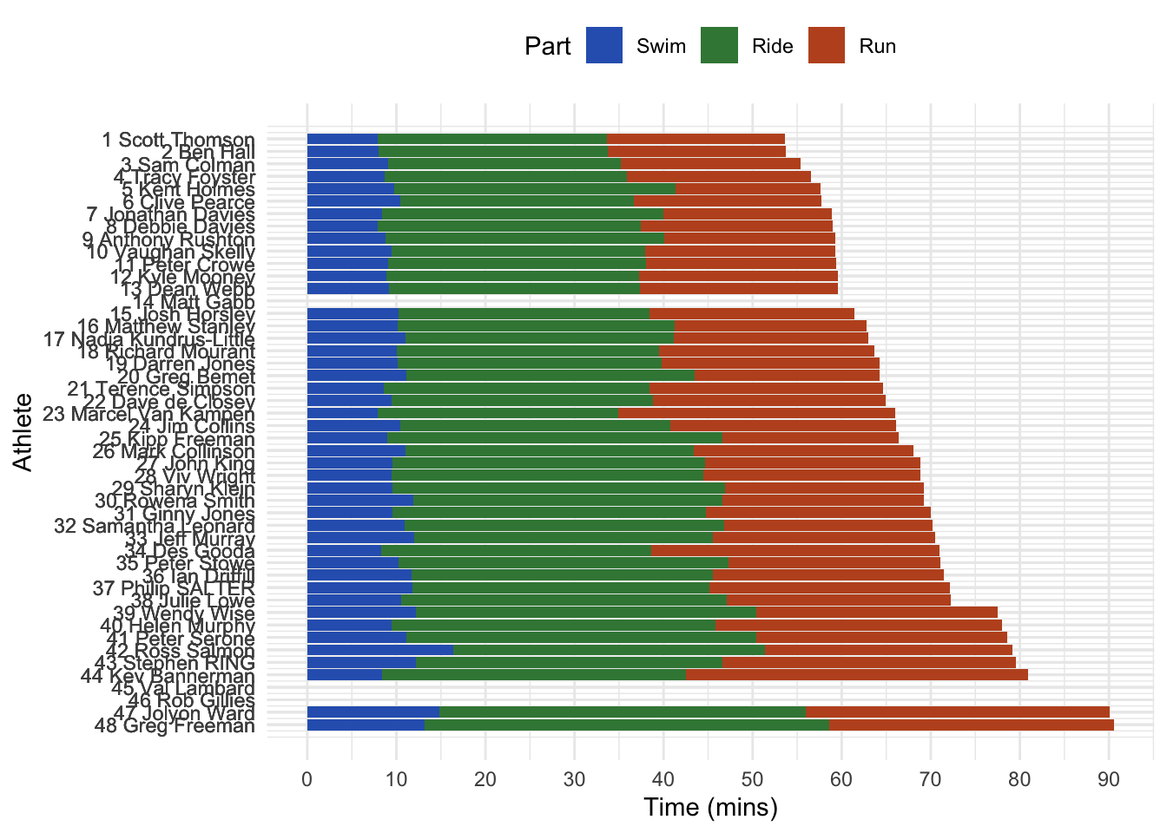
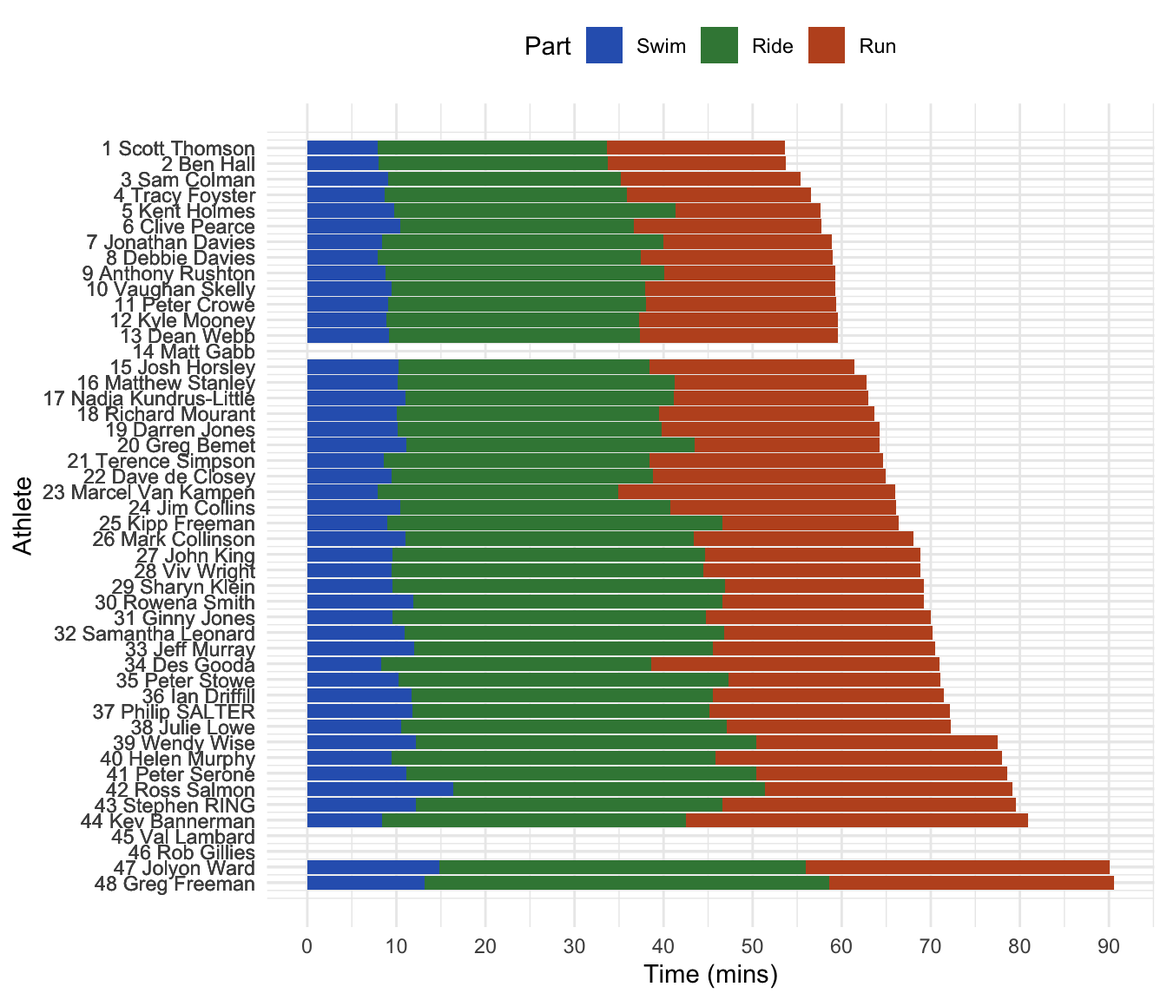
Static plot size increased.

diff --git a/race-results.html b/race-results.html
@@ -173,8 +173,8 @@ code span.wa { color: #60a0b0; font-weight: bold; font-style: italic; } /* Warni
 <p>Overall times</p>
 <div id="content">
 <div class="desktop">
-<div id="htmlwidget-0e94070414d6298dd7f4" style="width:800px;height:700px;" class="plotly html-widget"></div>
-<script type="application/json" data-for="htmlwidget-0e94070414d6298dd7f4">{"x":{"data":[{"orientation":"v","width":[7.86666666666667,8.01666666666667,9.1,8.68333333333333,9.8,10.4,8.43333333333333,7.88333333333333,8.78333333333333,9.41666666666667,9.05,8.85,9.18333333333333,10.2,10.1833333333333,10.9833333333333,10.05,10.15,11.0833333333333,8.58333333333333,9.45,7.88333333333333,10.4,9,11,9.51666666666667,9.5,9.55,11.9,9.58333333333333,10.9333333333333,12.0333333333333,8.31666666666667,10.25,11.6833333333333,11.7666666666667,10.55,12.2333333333333,9.46666666666667,11.1166666666667,16.3833333333333,12.2,8.41666666666667,14.8333333333333,13.15],"base":[-1.45,-2.45,-3.45,-4.45,-5.45,-6.45,-7.45,-8.45,-9.45,-10.45,-11.45,-12.45,-13.45,-15.45,-16.45,-17.45,-18.45,-19.45,-20.45,-21.45,-22.45,-23.45,-24.45,-25.45,-26.45,-27.45,-28.45,-29.45,-30.45,-31.45,-32.45,-33.45,-34.45,-35.45,-36.45,-37.45,-38.45,-39.45,-40.45,-41.45,-42.45,-43.45,-44.45,-47.45,-48.45],"x":[3.93333333333333,4.00833333333333,4.55,4.34166666666667,4.9,5.2,4.21666666666667,3.94166666666667,4.39166666666667,4.70833333333333,4.525,4.425,4.59166666666667,5.1,5.09166666666667,5.49166666666667,5.025,5.075,5.54166666666667,4.29166666666667,4.725,3.94166666666667,5.2,4.5,5.5,4.75833333333333,4.75,4.775,5.95,4.79166666666667,5.46666666666667,6.01666666666667,4.15833333333333,5.125,5.84166666666667,5.88333333333333,5.275,6.11666666666667,4.73333333333333,5.55833333333333,8.19166666666667,6.1,4.20833333333333,7.41666666666667,6.575],"y":[0.9,0.9,0.9,0.9,0.9,0.9,0.9,0.899999999999999,0.899999999999999,0.899999999999999,0.899999999999999,0.899999999999999,0.899999999999999,0.899999999999999,0.899999999999999,0.899999999999999,0.899999999999999,0.899999999999999,0.899999999999999,0.899999999999999,0.899999999999999,0.899999999999999,0.899999999999999,0.899999999999999,0.899999999999999,0.899999999999999,0.899999999999999,0.899999999999999,0.899999999999999,0.899999999999999,0.900000000000002,0.900000000000006,0.900000000000006,0.900000000000006,0.900000000000006,0.900000000000006,0.900000000000006,0.900000000000006,0.900000000000006,0.900000000000006,0.900000000000006,0.900000000000006,0.900000000000006,0.900000000000006,0.900000000000006],"text":["Scott Thomson<br />Swim: 00:07:52","Ben Hall<br />Swim: 00:08:01","Sam Colman<br />Swim: 00:09:06","Tracy Foyster<br />Swim: 00:08:41","Kent Holmes<br />Swim: 00:09:48","Clive Pearce<br />Swim: 00:10:24","Jonathan Davies<br />Swim: 00:08:26","Debbie Davies<br />Swim: 00:07:53","Anthony Rushton<br />Swim: 00:08:47","Vaughan Skelly<br />Swim: 00:09:25","Peter Crowe<br />Swim: 00:09:03","Kyle Mooney<br />Swim: 00:08:51","Dean Webb<br />Swim: 00:09:11","Josh Horsley<br />Swim: 00:10:12","Matthew Stanley<br />Swim: 00:10:11","Nadja Kundrus-Little<br />Swim: 00:10:59","Richard Mourant<br />Swim: 00:10:03","Darren Jones<br />Swim: 00:10:09","Greg Bemet<br />Swim: 00:11:05","Terence Simpson<br />Swim: 00:08:35","Dave de Closey<br />Swim: 00:09:27","Marcel Van Kampen<br />Swim: 00:07:53","Jim Collins<br />Swim: 00:10:24","Kipp Freeman<br />Swim: 00:09:00","Mark Collinson<br />Swim: 00:11:00","John King<br />Swim: 00:09:31","Viv Wright<br />Swim: 00:09:30","Sharyn Klein<br />Swim: 00:09:33","Rowena Smith<br />Swim: 00:11:54","Ginny Jones<br />Swim: 00:09:35","Samantha Leonard<br />Swim: 00:10:56","Jeff Murray<br />Swim: 00:12:02","Des Gooda<br />Swim: 00:08:19","Peter Stowe<br />Swim: 00:10:15","Ian Driffill<br />Swim: 00:11:41","Philip SALTER<br />Swim: 00:11:46","Julie Lowe<br />Swim: 00:10:33","Wendy Wise<br />Swim: 00:12:14","Helen Murphy<br />Swim: 00:09:28","Peter Serone<br />Swim: 00:11:07","Ross Salmon<br />Swim: 00:16:23","Stephen RING<br />Swim: 00:12:12","Kev Bannerman<br />Swim: 00:08:25","Jolyon Ward<br />Swim: 00:14:50","Greg Freeman<br />Swim: 00:13:09"],"type":"bar","marker":{"autocolorscale":false,"color":"rgba(46,99,188,1)","line":{"width":1.88976377952756,"color":"transparent"}},"name":"Swim","legendgroup":"Swim","showlegend":true,"xaxis":"x","yaxis":"y","hoverinfo":"text","frame":null},{"orientation":"v","width":[25.75,25.7,26.0833333333333,27.1833333333333,31.5166666666667,26.2333333333333,31.5,29.5833333333333,31.25,28.55,29,28.35,28.15,28.2333333333333,31.0166666666667,30.1833333333333,29.4166666666667,29.6,32.45,29.85,29.4,27.05,30.3166666666667,37.6,32.4166666666667,35.1,34.9333333333333,37.3,34.7166666666667,35.2166666666667,35.85,33.4666666666667,30.3166666666667,37.0666666666667,33.85,33.4166666666667,36.5166666666667,38.1666666666667,36.4,39.2833333333333,34.9666666666667,34.3666666666667,34.1,41.15,45.4666666666667],"base":[-1.45,-2.45,-3.45,-4.45,-5.45,-6.45,-7.45,-8.45,-9.45,-10.45,-11.45,-12.45,-13.45,-15.45,-16.45,-17.45,-18.45,-19.45,-20.45,-21.45,-22.45,-23.45,-24.45,-25.45,-26.45,-27.45,-28.45,-29.45,-30.45,-31.45,-32.45,-33.45,-34.45,-35.45,-36.45,-37.45,-38.45,-39.45,-40.45,-41.45,-42.45,-43.45,-44.45,-47.45,-48.45],"x":[20.7416666666667,20.8666666666667,22.1416666666667,22.275,25.5583333333333,23.5166666666667,24.1833333333333,22.675,24.4083333333333,23.6916666666667,23.55,23.025,23.2583333333333,24.3166666666667,25.6916666666667,26.075,24.7583333333333,24.95,27.3083333333333,23.5083333333333,24.15,21.4083333333333,25.5583333333333,27.8,27.2083333333333,27.0666666666667,26.9666666666667,28.2,29.2583333333333,27.1916666666667,28.8583333333333,28.7666666666667,23.475,28.7833333333333,28.6083333333333,28.475,28.8083333333333,31.3166666666667,27.6666666666667,30.7583333333333,33.8666666666667,29.3833333333333,25.4666666666667,35.4083333333333,35.8833333333333],"y":[0.9,0.9,0.9,0.9,0.9,0.9,0.9,0.899999999999999,0.899999999999999,0.899999999999999,0.899999999999999,0.899999999999999,0.899999999999999,0.899999999999999,0.899999999999999,0.899999999999999,0.899999999999999,0.899999999999999,0.899999999999999,0.899999999999999,0.899999999999999,0.899999999999999,0.899999999999999,0.899999999999999,0.899999999999999,0.899999999999999,0.899999999999999,0.899999999999999,0.899999999999999,0.899999999999999,0.900000000000002,0.900000000000006,0.900000000000006,0.900000000000006,0.900000000000006,0.900000000000006,0.900000000000006,0.900000000000006,0.900000000000006,0.900000000000006,0.900000000000006,0.900000000000006,0.900000000000006,0.900000000000006,0.900000000000006],"text":["Scott Thomson<br />Ride: 00:25:45","Ben Hall<br />Ride: 00:25:42","Sam Colman<br />Ride: 00:26:05","Tracy Foyster<br />Ride: 00:27:11","Kent Holmes<br />Ride: 00:31:31","Clive Pearce<br />Ride: 00:26:14","Jonathan Davies<br />Ride: 00:31:30","Debbie Davies<br />Ride: 00:29:35","Anthony Rushton<br />Ride: 00:31:15","Vaughan Skelly<br />Ride: 00:28:33","Peter Crowe<br />Ride: 00:29:00","Kyle Mooney<br />Ride: 00:28:21","Dean Webb<br />Ride: 00:28:09","Josh Horsley<br />Ride: 00:28:14","Matthew Stanley<br />Ride: 00:31:01","Nadja Kundrus-Little<br />Ride: 00:30:11","Richard Mourant<br />Ride: 00:29:25","Darren Jones<br />Ride: 00:29:36","Greg Bemet<br />Ride: 00:32:27","Terence Simpson<br />Ride: 00:29:51","Dave de Closey<br />Ride: 00:29:24","Marcel Van Kampen<br />Ride: 00:27:03","Jim Collins<br />Ride: 00:30:19","Kipp Freeman<br />Ride: 00:37:36","Mark Collinson<br />Ride: 00:32:25","John King<br />Ride: 00:35:06","Viv Wright<br />Ride: 00:34:56","Sharyn Klein<br />Ride: 00:37:18","Rowena Smith<br />Ride: 00:34:43","Ginny Jones<br />Ride: 00:35:13","Samantha Leonard<br />Ride: 00:35:51","Jeff Murray<br />Ride: 00:33:28","Des Gooda<br />Ride: 00:30:19","Peter Stowe<br />Ride: 00:37:04","Ian Driffill<br />Ride: 00:33:51","Philip SALTER<br />Ride: 00:33:25","Julie Lowe<br />Ride: 00:36:31","Wendy Wise<br />Ride: 00:38:10","Helen Murphy<br />Ride: 00:36:24","Peter Serone<br />Ride: 00:39:17","Ross Salmon<br />Ride: 00:34:58","Stephen RING<br />Ride: 00:34:22","Kev Bannerman<br />Ride: 00:34:06","Jolyon Ward<br />Ride: 00:41:09","Greg Freeman<br />Ride: 00:45:28"],"type":"bar","marker":{"autocolorscale":false,"color":"rgba(59,133,68,1)","line":{"width":1.88976377952756,"color":"transparent"}},"name":"Ride","legendgroup":"Ride","showlegend":true,"xaxis":"x","yaxis":"y","hoverinfo":"text","frame":null},{"orientation":"v","width":[19.9666666666667,19.9666666666667,20.2,20.6833333333333,16.35,21.1,18.9166666666667,21.5,19.2,21.3,21.3333333333333,22.4,22.2833333333333,22.9666666666667,21.6166666666667,21.7833333333333,24.1666666666667,24.4833333333333,20.75,26.2,26.05,31.1166666666667,25.3666666666667,19.7833333333333,24.6333333333333,24.25,24.4333333333333,22.35,22.6333333333333,25.2166666666667,23.4,25.0333333333333,32.3833333333333,23.7333333333333,25.9,26.9833333333333,25.1333333333333,27.0833333333333,32.1166666666667,28.2,27.7833333333333,33,38.3833333333333,34.1166666666667,31.95],"base":[-1.45,-2.45,-3.45,-4.45,-5.45,-6.45,-7.45,-8.45,-9.45,-10.45,-11.45,-12.45,-13.45,-15.45,-16.45,-17.45,-18.45,-19.45,-20.45,-21.45,-22.45,-23.45,-24.45,-25.45,-26.45,-27.45,-28.45,-29.45,-30.45,-31.45,-32.45,-33.45,-34.45,-35.45,-36.45,-37.45,-38.45,-39.45,-40.45,-41.45,-42.45,-43.45,-44.45,-47.45,-48.45],"x":[43.6,43.7,45.2833333333333,46.2083333333333,49.4916666666667,47.1833333333333,49.3916666666667,48.2166666666667,49.6333333333333,48.6166666666667,48.7166666666667,48.4,48.475,49.9166666666667,52.0083333333333,52.0583333333333,51.55,51.9916666666667,53.9083333333333,51.5333333333333,51.875,50.4916666666667,53.4,56.4916666666667,55.7333333333333,56.7416666666667,56.65,58.025,57.9333333333333,57.4083333333333,58.4833333333333,58.0166666666667,54.825,59.1833333333333,58.4833333333333,58.675,59.6333333333333,63.9416666666667,61.925,64.5,65.2416666666667,63.0666666666667,61.7083333333333,73.0416666666667,74.5916666666667],"y":[0.9,0.9,0.9,0.9,0.9,0.9,0.9,0.899999999999999,0.899999999999999,0.899999999999999,0.899999999999999,0.899999999999999,0.899999999999999,0.899999999999999,0.899999999999999,0.899999999999999,0.899999999999999,0.899999999999999,0.899999999999999,0.899999999999999,0.899999999999999,0.899999999999999,0.899999999999999,0.899999999999999,0.899999999999999,0.899999999999999,0.899999999999999,0.899999999999999,0.899999999999999,0.899999999999999,0.900000000000002,0.900000000000006,0.900000000000006,0.900000000000006,0.900000000000006,0.900000000000006,0.900000000000006,0.900000000000006,0.900000000000006,0.900000000000006,0.900000000000006,0.900000000000006,0.900000000000006,0.900000000000006,0.900000000000006],"text":["Scott Thomson<br />Run: 00:19:58","Ben Hall<br />Run: 00:19:58","Sam Colman<br />Run: 00:20:12","Tracy Foyster<br />Run: 00:20:41","Kent Holmes<br />Run: 00:16:21","Clive Pearce<br />Run: 00:21:06","Jonathan Davies<br />Run: 00:18:55","Debbie Davies<br />Run: 00:21:30","Anthony Rushton<br />Run: 00:19:12","Vaughan Skelly<br />Run: 00:21:18","Peter Crowe<br />Run: 00:21:20","Kyle Mooney<br />Run: 00:22:24","Dean Webb<br />Run: 00:22:17","Josh Horsley<br />Run: 00:22:58","Matthew Stanley<br />Run: 00:21:37","Nadja Kundrus-Little<br />Run: 00:21:47","Richard Mourant<br />Run: 00:24:10","Darren Jones<br />Run: 00:24:29","Greg Bemet<br />Run: 00:20:45","Terence Simpson<br />Run: 00:26:12","Dave de Closey<br />Run: 00:26:03","Marcel Van Kampen<br />Run: 00:31:07","Jim Collins<br />Run: 00:25:22","Kipp Freeman<br />Run: 00:19:47","Mark Collinson<br />Run: 00:24:38","John King<br />Run: 00:24:15","Viv Wright<br />Run: 00:24:26","Sharyn Klein<br />Run: 00:22:21","Rowena Smith<br />Run: 00:22:38","Ginny Jones<br />Run: 00:25:13","Samantha Leonard<br />Run: 00:23:24","Jeff Murray<br />Run: 00:25:02","Des Gooda<br />Run: 00:32:23","Peter Stowe<br />Run: 00:23:44","Ian Driffill<br />Run: 00:25:54","Philip SALTER<br />Run: 00:26:59","Julie Lowe<br />Run: 00:25:08","Wendy Wise<br />Run: 00:27:05","Helen Murphy<br />Run: 00:32:07","Peter Serone<br />Run: 00:28:12","Ross Salmon<br />Run: 00:27:47","Stephen RING<br />Run: 00:33:00","Kev Bannerman<br />Run: 00:38:23","Jolyon Ward<br />Run: 00:34:07","Greg Freeman<br />Run: 00:31:57"],"type":"bar","marker":{"autocolorscale":false,"color":"rgba(191,83,36,1)","line":{"width":1.88976377952756,"color":"transparent"}},"name":"Run","legendgroup":"Run","showlegend":true,"xaxis":"x","yaxis":"y","hoverinfo":"text","frame":null}],"layout":{"margin":{"t":24.3496412263536,"r":7.30593607305936,"b":38.3039791258969,"l":160},"font":{"color":"rgba(0,0,0,1)","family":"","size":14.6118721461187},"xaxis":{"domain":[0,1],"automargin":true,"type":"linear","autorange":false,"range":[-4.52833333333333,95.095],"tickmode":"array","ticktext":["0","10","20","30","40","50","60","70","80","90"],"tickvals":[0,10,20,30,40,50,60,70,80,90],"categoryorder":"array","categoryarray":["0","10","20","30","40","50","60","70","80","90"],"nticks":null,"ticks":"","tickcolor":null,"ticklen":3.65296803652968,"tickwidth":0,"showticklabels":true,"tickfont":{"color":"rgba(77,77,77,1)","family":"","size":11.689497716895},"tickangle":-0,"showline":false,"linecolor":null,"linewidth":0,"showgrid":true,"gridcolor":"rgba(235,235,235,1)","gridwidth":0.66417600664176,"zeroline":false,"anchor":"y","title":{"text":"Time (mins)","font":{"color":"rgba(0,0,0,1)","family":"","size":14.6118721461187}},"hoverformat":".2f"},"yaxis":{"domain":[0,1],"automargin":true,"type":"linear","autorange":false,"range":[-50.845,1.845],"tickmode":"array","ticktext":["1 Scott Thomson","2 Ben Hall","3 Sam Colman","4 Tracy Foyster","5 Kent Holmes","6 Clive Pearce","7 Jonathan Davies","8 Debbie Davies","9 Anthony Rushton","10 Vaughan Skelly","11 Peter Crowe","12 Kyle Mooney","13 Dean Webb","14 Matt Gabb","15 Josh Horsley","16 Matthew Stanley","17 Nadja Kundrus-Little","18 Richard Mourant","19 Darren Jones","20 Greg Bemet","21 Terence Simpson","22 Dave de Closey","23 Marcel Van Kampen","24 Jim Collins","25 Kipp Freeman","26 Mark Collinson","27 John King","28 Viv Wright","29 Sharyn Klein","30 Rowena Smith","31 Ginny Jones","32 Samantha Leonard","33 Jeff Murray","34 Des Gooda","35 Peter Stowe","36 Ian Driffill","37 Philip SALTER","38 Julie Lowe","39 Wendy Wise","40 Helen Murphy","41 Peter Serone","42 Ross Salmon","43 Stephen RING","44 Kev Bannerman","45 Val Lambard","46 Rob Gillies","47 Jolyon Ward","48 Greg Freeman","1 Scott Thomson","2 Ben Hall","3 Sam Colman","4 Tracy Foyster","5 Kent Holmes","6 Clive Pearce","7 Jonathan Davies","8 Debbie Davies","9 Anthony Rushton","10 Vaughan Skelly","11 Peter Crowe","12 Kyle Mooney","13 Dean Webb","14 Matt Gabb","15 Josh Horsley","16 Matthew Stanley","17 Nadja Kundrus-Little","18 Richard Mourant","19 Darren Jones","20 Greg Bemet","21 Terence Simpson","22 Dave de Closey","23 Marcel Van Kampen","24 Jim Collins","25 Kipp Freeman","26 Mark Collinson","27 John King","28 Viv Wright","29 Sharyn Klein","30 Rowena Smith","31 Ginny Jones","32 Samantha Leonard","33 Jeff Murray","34 Des Gooda","35 Peter Stowe","36 Ian Driffill","37 Philip SALTER","38 Julie Lowe","39 Wendy Wise","40 Helen Murphy","41 Peter Serone","42 Ross Salmon","43 Stephen RING","44 Kev Bannerman","45 Val Lambard","46 Rob Gillies","47 Jolyon Ward","48 Greg Freeman","1 Scott Thomson","2 Ben Hall","3 Sam Colman","4 Tracy Foyster","5 Kent Holmes","6 Clive Pearce","7 Jonathan Davies","8 Debbie Davies","9 Anthony Rushton","10 Vaughan Skelly","11 Peter Crowe","12 Kyle Mooney","13 Dean Webb","14 Matt Gabb","15 Josh Horsley","16 Matthew Stanley","17 Nadja Kundrus-Little","18 Richard Mourant","19 Darren Jones","20 Greg Bemet","21 Terence Simpson","22 Dave de Closey","23 Marcel Van Kampen","24 Jim Collins","25 Kipp Freeman","26 Mark Collinson","27 John King","28 Viv Wright","29 Sharyn Klein","30 Rowena Smith","31 Ginny Jones","32 Samantha Leonard","33 Jeff Murray","34 Des Gooda","35 Peter Stowe","36 Ian Driffill","37 Philip SALTER","38 Julie Lowe","39 Wendy Wise","40 Helen Murphy","41 Peter Serone","42 Ross Salmon","43 Stephen RING","44 Kev Bannerman","45 Val Lambard","46 Rob Gillies","47 Jolyon Ward","48 Greg Freeman"],"tickvals":[-1,-2,-3,-4,-5,-6,-7,-8,-9,-10,-11,-12,-13,-14,-15,-16,-17,-18,-19,-20,-21,-22,-23,-24,-25,-26,-27,-28,-29,-30,-31,-32,-33,-34,-35,-36,-37,-38,-39,-40,-41,-42,-43,-44,-45,-46,-47,-48,-1,-2,-3,-4,-5,-6,-7,-8,-9,-10,-11,-12,-13,-14,-15,-16,-17,-18,-19,-20,-21,-22,-23,-24,-25,-26,-27,-28,-29,-30,-31,-32,-33,-34,-35,-36,-37,-38,-39,-40,-41,-42,-43,-44,-45,-46,-47,-48,-1,-2,-3,-4,-5,-6,-7,-8,-9,-10,-11,-12,-13,-14,-15,-16,-17,-18,-19,-20,-21,-22,-23,-24,-25,-26,-27,-28,-29,-30,-31,-32,-33,-34,-35,-36,-37,-38,-39,-40,-41,-42,-43,-44,-45,-46,-47,-48],"categoryorder":"array","categoryarray":["1 Scott Thomson","2 Ben Hall","3 Sam Colman","4 Tracy Foyster","5 Kent Holmes","6 Clive Pearce","7 Jonathan Davies","8 Debbie Davies","9 Anthony Rushton","10 Vaughan Skelly","11 Peter Crowe","12 Kyle Mooney","13 Dean Webb","14 Matt Gabb","15 Josh Horsley","16 Matthew Stanley","17 Nadja Kundrus-Little","18 Richard Mourant","19 Darren Jones","20 Greg Bemet","21 Terence Simpson","22 Dave de Closey","23 Marcel Van Kampen","24 Jim Collins","25 Kipp Freeman","26 Mark Collinson","27 John King","28 Viv Wright","29 Sharyn Klein","30 Rowena Smith","31 Ginny Jones","32 Samantha Leonard","33 Jeff Murray","34 Des Gooda","35 Peter Stowe","36 Ian Driffill","37 Philip SALTER","38 Julie Lowe","39 Wendy Wise","40 Helen Murphy","41 Peter Serone","42 Ross Salmon","43 Stephen RING","44 Kev Bannerman","45 Val Lambard","46 Rob Gillies","47 Jolyon Ward","48 Greg Freeman","1 Scott Thomson","2 Ben Hall","3 Sam Colman","4 Tracy Foyster","5 Kent Holmes","6 Clive Pearce","7 Jonathan Davies","8 Debbie Davies","9 Anthony Rushton","10 Vaughan Skelly","11 Peter Crowe","12 Kyle Mooney","13 Dean Webb","14 Matt Gabb","15 Josh Horsley","16 Matthew Stanley","17 Nadja Kundrus-Little","18 Richard Mourant","19 Darren Jones","20 Greg Bemet","21 Terence Simpson","22 Dave de Closey","23 Marcel Van Kampen","24 Jim Collins","25 Kipp Freeman","26 Mark Collinson","27 John King","28 Viv Wright","29 Sharyn Klein","30 Rowena Smith","31 Ginny Jones","32 Samantha Leonard","33 Jeff Murray","34 Des Gooda","35 Peter Stowe","36 Ian Driffill","37 Philip SALTER","38 Julie Lowe","39 Wendy Wise","40 Helen Murphy","41 Peter Serone","42 Ross Salmon","43 Stephen RING","44 Kev Bannerman","45 Val Lambard","46 Rob Gillies","47 Jolyon Ward","48 Greg Freeman","1 Scott Thomson","2 Ben Hall","3 Sam Colman","4 Tracy Foyster","5 Kent Holmes","6 Clive Pearce","7 Jonathan Davies","8 Debbie Davies","9 Anthony Rushton","10 Vaughan Skelly","11 Peter Crowe","12 Kyle Mooney","13 Dean Webb","14 Matt Gabb","15 Josh Horsley","16 Matthew Stanley","17 Nadja Kundrus-Little","18 Richard Mourant","19 Darren Jones","20 Greg Bemet","21 Terence Simpson","22 Dave de Closey","23 Marcel Van Kampen","24 Jim Collins","25 Kipp Freeman","26 Mark Collinson","27 John King","28 Viv Wright","29 Sharyn Klein","30 Rowena Smith","31 Ginny Jones","32 Samantha Leonard","33 Jeff Murray","34 Des Gooda","35 Peter Stowe","36 Ian Driffill","37 Philip SALTER","38 Julie Lowe","39 Wendy Wise","40 Helen Murphy","41 Peter Serone","42 Ross Salmon","43 Stephen RING","44 Kev Bannerman","45 Val Lambard","46 Rob Gillies","47 Jolyon Ward","48 Greg Freeman"],"nticks":null,"ticks":"","tickcolor":null,"ticklen":3.65296803652968,"tickwidth":0,"showticklabels":true,"tickfont":{"color":"rgba(77,77,77,1)","family":"","size":11.689497716895},"tickangle":-0,"showline":false,"linecolor":null,"linewidth":0,"showgrid":true,"gridcolor":"rgba(235,235,235,1)","gridwidth":0.66417600664176,"zeroline":false,"anchor":"x","title":{"text":"Athlete","font":{"color":"rgba(0,0,0,1)","family":"","size":14.6118721461187}},"hoverformat":".2f"},"shapes":[{"type":"rect","fillcolor":null,"line":{"color":null,"width":0,"linetype":[]},"yref":"paper","xref":"paper","x0":0,"x1":1,"y0":0,"y1":1}],"showlegend":true,"legend":{"bgcolor":null,"bordercolor":null,"borderwidth":0,"font":{"color":"rgba(0,0,0,1)","family":"","size":11.689497716895},"y":0.955455568053993},"annotations":[{"text":"Part","x":1.02,"y":1,"showarrow":false,"ax":0,"ay":0,"font":{"color":"rgba(0,0,0,1)","family":"","size":14.6118721461187},"xref":"paper","yref":"paper","textangle":-0,"xanchor":"left","yanchor":"bottom","legendTitle":true}],"hovermode":"closest","width":800,"height":700,"barmode":"relative"},"config":{"doubleClick":"reset","showSendToCloud":false},"source":"A","attrs":{"3e3d2c009969":{"x":{},"y":{},"fill":{},"text":{},"type":"bar"}},"cur_data":"3e3d2c009969","visdat":{"3e3d2c009969":["function (y) ","x"]},"highlight":{"on":"plotly_click","persistent":false,"dynamic":false,"selectize":false,"opacityDim":0.2,"selected":{"opacity":1},"debounce":0},"shinyEvents":["plotly_hover","plotly_click","plotly_selected","plotly_relayout","plotly_brushed","plotly_brushing","plotly_clickannotation","plotly_doubleclick","plotly_deselect","plotly_afterplot","plotly_sunburstclick"],"base_url":"https://plot.ly"},"evals":[],"jsHooks":[]}</script>
+<div id="htmlwidget-45db019c6979245d92b0" style="width:800px;height:700px;" class="plotly html-widget"></div>
+<script type="application/json" data-for="htmlwidget-45db019c6979245d92b0">{"x":{"data":[{"orientation":"v","width":[7.86666666666667,8.01666666666667,9.1,8.68333333333333,9.8,10.4,8.43333333333333,7.88333333333333,8.78333333333333,9.41666666666667,9.05,8.85,9.18333333333333,10.2,10.1833333333333,10.9833333333333,10.05,10.15,11.0833333333333,8.58333333333333,9.45,7.88333333333333,10.4,9,11,9.51666666666667,9.5,9.55,11.9,9.58333333333333,10.9333333333333,12.0333333333333,8.31666666666667,10.25,11.6833333333333,11.7666666666667,10.55,12.2333333333333,9.46666666666667,11.1166666666667,16.3833333333333,12.2,8.41666666666667,14.8333333333333,13.15],"base":[-1.45,-2.45,-3.45,-4.45,-5.45,-6.45,-7.45,-8.45,-9.45,-10.45,-11.45,-12.45,-13.45,-15.45,-16.45,-17.45,-18.45,-19.45,-20.45,-21.45,-22.45,-23.45,-24.45,-25.45,-26.45,-27.45,-28.45,-29.45,-30.45,-31.45,-32.45,-33.45,-34.45,-35.45,-36.45,-37.45,-38.45,-39.45,-40.45,-41.45,-42.45,-43.45,-44.45,-47.45,-48.45],"x":[3.93333333333333,4.00833333333333,4.55,4.34166666666667,4.9,5.2,4.21666666666667,3.94166666666667,4.39166666666667,4.70833333333333,4.525,4.425,4.59166666666667,5.1,5.09166666666667,5.49166666666667,5.025,5.075,5.54166666666667,4.29166666666667,4.725,3.94166666666667,5.2,4.5,5.5,4.75833333333333,4.75,4.775,5.95,4.79166666666667,5.46666666666667,6.01666666666667,4.15833333333333,5.125,5.84166666666667,5.88333333333333,5.275,6.11666666666667,4.73333333333333,5.55833333333333,8.19166666666667,6.1,4.20833333333333,7.41666666666667,6.575],"y":[0.9,0.9,0.9,0.9,0.9,0.9,0.9,0.899999999999999,0.899999999999999,0.899999999999999,0.899999999999999,0.899999999999999,0.899999999999999,0.899999999999999,0.899999999999999,0.899999999999999,0.899999999999999,0.899999999999999,0.899999999999999,0.899999999999999,0.899999999999999,0.899999999999999,0.899999999999999,0.899999999999999,0.899999999999999,0.899999999999999,0.899999999999999,0.899999999999999,0.899999999999999,0.899999999999999,0.900000000000002,0.900000000000006,0.900000000000006,0.900000000000006,0.900000000000006,0.900000000000006,0.900000000000006,0.900000000000006,0.900000000000006,0.900000000000006,0.900000000000006,0.900000000000006,0.900000000000006,0.900000000000006,0.900000000000006],"text":["Scott Thomson<br />Swim: 00:07:52","Ben Hall<br />Swim: 00:08:01","Sam Colman<br />Swim: 00:09:06","Tracy Foyster<br />Swim: 00:08:41","Kent Holmes<br />Swim: 00:09:48","Clive Pearce<br />Swim: 00:10:24","Jonathan Davies<br />Swim: 00:08:26","Debbie Davies<br />Swim: 00:07:53","Anthony Rushton<br />Swim: 00:08:47","Vaughan Skelly<br />Swim: 00:09:25","Peter Crowe<br />Swim: 00:09:03","Kyle Mooney<br />Swim: 00:08:51","Dean Webb<br />Swim: 00:09:11","Josh Horsley<br />Swim: 00:10:12","Matthew Stanley<br />Swim: 00:10:11","Nadja Kundrus-Little<br />Swim: 00:10:59","Richard Mourant<br />Swim: 00:10:03","Darren Jones<br />Swim: 00:10:09","Greg Bemet<br />Swim: 00:11:05","Terence Simpson<br />Swim: 00:08:35","Dave de Closey<br />Swim: 00:09:27","Marcel Van Kampen<br />Swim: 00:07:53","Jim Collins<br />Swim: 00:10:24","Kipp Freeman<br />Swim: 00:09:00","Mark Collinson<br />Swim: 00:11:00","John King<br />Swim: 00:09:31","Viv Wright<br />Swim: 00:09:30","Sharyn Klein<br />Swim: 00:09:33","Rowena Smith<br />Swim: 00:11:54","Ginny Jones<br />Swim: 00:09:35","Samantha Leonard<br />Swim: 00:10:56","Jeff Murray<br />Swim: 00:12:02","Des Gooda<br />Swim: 00:08:19","Peter Stowe<br />Swim: 00:10:15","Ian Driffill<br />Swim: 00:11:41","Philip SALTER<br />Swim: 00:11:46","Julie Lowe<br />Swim: 00:10:33","Wendy Wise<br />Swim: 00:12:14","Helen Murphy<br />Swim: 00:09:28","Peter Serone<br />Swim: 00:11:07","Ross Salmon<br />Swim: 00:16:23","Stephen RING<br />Swim: 00:12:12","Kev Bannerman<br />Swim: 00:08:25","Jolyon Ward<br />Swim: 00:14:50","Greg Freeman<br />Swim: 00:13:09"],"type":"bar","marker":{"autocolorscale":false,"color":"rgba(46,99,188,1)","line":{"width":1.88976377952756,"color":"transparent"}},"name":"Swim","legendgroup":"Swim","showlegend":true,"xaxis":"x","yaxis":"y","hoverinfo":"text","frame":null},{"orientation":"v","width":[25.75,25.7,26.0833333333333,27.1833333333333,31.5166666666667,26.2333333333333,31.5,29.5833333333333,31.25,28.55,29,28.35,28.15,28.2333333333333,31.0166666666667,30.1833333333333,29.4166666666667,29.6,32.45,29.85,29.4,27.05,30.3166666666667,37.6,32.4166666666667,35.1,34.9333333333333,37.3,34.7166666666667,35.2166666666667,35.85,33.4666666666667,30.3166666666667,37.0666666666667,33.85,33.4166666666667,36.5166666666667,38.1666666666667,36.4,39.2833333333333,34.9666666666667,34.3666666666667,34.1,41.15,45.4666666666667],"base":[-1.45,-2.45,-3.45,-4.45,-5.45,-6.45,-7.45,-8.45,-9.45,-10.45,-11.45,-12.45,-13.45,-15.45,-16.45,-17.45,-18.45,-19.45,-20.45,-21.45,-22.45,-23.45,-24.45,-25.45,-26.45,-27.45,-28.45,-29.45,-30.45,-31.45,-32.45,-33.45,-34.45,-35.45,-36.45,-37.45,-38.45,-39.45,-40.45,-41.45,-42.45,-43.45,-44.45,-47.45,-48.45],"x":[20.7416666666667,20.8666666666667,22.1416666666667,22.275,25.5583333333333,23.5166666666667,24.1833333333333,22.675,24.4083333333333,23.6916666666667,23.55,23.025,23.2583333333333,24.3166666666667,25.6916666666667,26.075,24.7583333333333,24.95,27.3083333333333,23.5083333333333,24.15,21.4083333333333,25.5583333333333,27.8,27.2083333333333,27.0666666666667,26.9666666666667,28.2,29.2583333333333,27.1916666666667,28.8583333333333,28.7666666666667,23.475,28.7833333333333,28.6083333333333,28.475,28.8083333333333,31.3166666666667,27.6666666666667,30.7583333333333,33.8666666666667,29.3833333333333,25.4666666666667,35.4083333333333,35.8833333333333],"y":[0.9,0.9,0.9,0.9,0.9,0.9,0.9,0.899999999999999,0.899999999999999,0.899999999999999,0.899999999999999,0.899999999999999,0.899999999999999,0.899999999999999,0.899999999999999,0.899999999999999,0.899999999999999,0.899999999999999,0.899999999999999,0.899999999999999,0.899999999999999,0.899999999999999,0.899999999999999,0.899999999999999,0.899999999999999,0.899999999999999,0.899999999999999,0.899999999999999,0.899999999999999,0.899999999999999,0.900000000000002,0.900000000000006,0.900000000000006,0.900000000000006,0.900000000000006,0.900000000000006,0.900000000000006,0.900000000000006,0.900000000000006,0.900000000000006,0.900000000000006,0.900000000000006,0.900000000000006,0.900000000000006,0.900000000000006],"text":["Scott Thomson<br />Ride: 00:25:45","Ben Hall<br />Ride: 00:25:42","Sam Colman<br />Ride: 00:26:05","Tracy Foyster<br />Ride: 00:27:11","Kent Holmes<br />Ride: 00:31:31","Clive Pearce<br />Ride: 00:26:14","Jonathan Davies<br />Ride: 00:31:30","Debbie Davies<br />Ride: 00:29:35","Anthony Rushton<br />Ride: 00:31:15","Vaughan Skelly<br />Ride: 00:28:33","Peter Crowe<br />Ride: 00:29:00","Kyle Mooney<br />Ride: 00:28:21","Dean Webb<br />Ride: 00:28:09","Josh Horsley<br />Ride: 00:28:14","Matthew Stanley<br />Ride: 00:31:01","Nadja Kundrus-Little<br />Ride: 00:30:11","Richard Mourant<br />Ride: 00:29:25","Darren Jones<br />Ride: 00:29:36","Greg Bemet<br />Ride: 00:32:27","Terence Simpson<br />Ride: 00:29:51","Dave de Closey<br />Ride: 00:29:24","Marcel Van Kampen<br />Ride: 00:27:03","Jim Collins<br />Ride: 00:30:19","Kipp Freeman<br />Ride: 00:37:36","Mark Collinson<br />Ride: 00:32:25","John King<br />Ride: 00:35:06","Viv Wright<br />Ride: 00:34:56","Sharyn Klein<br />Ride: 00:37:18","Rowena Smith<br />Ride: 00:34:43","Ginny Jones<br />Ride: 00:35:13","Samantha Leonard<br />Ride: 00:35:51","Jeff Murray<br />Ride: 00:33:28","Des Gooda<br />Ride: 00:30:19","Peter Stowe<br />Ride: 00:37:04","Ian Driffill<br />Ride: 00:33:51","Philip SALTER<br />Ride: 00:33:25","Julie Lowe<br />Ride: 00:36:31","Wendy Wise<br />Ride: 00:38:10","Helen Murphy<br />Ride: 00:36:24","Peter Serone<br />Ride: 00:39:17","Ross Salmon<br />Ride: 00:34:58","Stephen RING<br />Ride: 00:34:22","Kev Bannerman<br />Ride: 00:34:06","Jolyon Ward<br />Ride: 00:41:09","Greg Freeman<br />Ride: 00:45:28"],"type":"bar","marker":{"autocolorscale":false,"color":"rgba(59,133,68,1)","line":{"width":1.88976377952756,"color":"transparent"}},"name":"Ride","legendgroup":"Ride","showlegend":true,"xaxis":"x","yaxis":"y","hoverinfo":"text","frame":null},{"orientation":"v","width":[19.9666666666667,19.9666666666667,20.2,20.6833333333333,16.35,21.1,18.9166666666667,21.5,19.2,21.3,21.3333333333333,22.4,22.2833333333333,22.9666666666667,21.6166666666667,21.7833333333333,24.1666666666667,24.4833333333333,20.75,26.2,26.05,31.1166666666667,25.3666666666667,19.7833333333333,24.6333333333333,24.25,24.4333333333333,22.35,22.6333333333333,25.2166666666667,23.4,25.0333333333333,32.3833333333333,23.7333333333333,25.9,26.9833333333333,25.1333333333333,27.0833333333333,32.1166666666667,28.2,27.7833333333333,33,38.3833333333333,34.1166666666667,31.95],"base":[-1.45,-2.45,-3.45,-4.45,-5.45,-6.45,-7.45,-8.45,-9.45,-10.45,-11.45,-12.45,-13.45,-15.45,-16.45,-17.45,-18.45,-19.45,-20.45,-21.45,-22.45,-23.45,-24.45,-25.45,-26.45,-27.45,-28.45,-29.45,-30.45,-31.45,-32.45,-33.45,-34.45,-35.45,-36.45,-37.45,-38.45,-39.45,-40.45,-41.45,-42.45,-43.45,-44.45,-47.45,-48.45],"x":[43.6,43.7,45.2833333333333,46.2083333333333,49.4916666666667,47.1833333333333,49.3916666666667,48.2166666666667,49.6333333333333,48.6166666666667,48.7166666666667,48.4,48.475,49.9166666666667,52.0083333333333,52.0583333333333,51.55,51.9916666666667,53.9083333333333,51.5333333333333,51.875,50.4916666666667,53.4,56.4916666666667,55.7333333333333,56.7416666666667,56.65,58.025,57.9333333333333,57.4083333333333,58.4833333333333,58.0166666666667,54.825,59.1833333333333,58.4833333333333,58.675,59.6333333333333,63.9416666666667,61.925,64.5,65.2416666666667,63.0666666666667,61.7083333333333,73.0416666666667,74.5916666666667],"y":[0.9,0.9,0.9,0.9,0.9,0.9,0.9,0.899999999999999,0.899999999999999,0.899999999999999,0.899999999999999,0.899999999999999,0.899999999999999,0.899999999999999,0.899999999999999,0.899999999999999,0.899999999999999,0.899999999999999,0.899999999999999,0.899999999999999,0.899999999999999,0.899999999999999,0.899999999999999,0.899999999999999,0.899999999999999,0.899999999999999,0.899999999999999,0.899999999999999,0.899999999999999,0.899999999999999,0.900000000000002,0.900000000000006,0.900000000000006,0.900000000000006,0.900000000000006,0.900000000000006,0.900000000000006,0.900000000000006,0.900000000000006,0.900000000000006,0.900000000000006,0.900000000000006,0.900000000000006,0.900000000000006,0.900000000000006],"text":["Scott Thomson<br />Run: 00:19:58","Ben Hall<br />Run: 00:19:58","Sam Colman<br />Run: 00:20:12","Tracy Foyster<br />Run: 00:20:41","Kent Holmes<br />Run: 00:16:21","Clive Pearce<br />Run: 00:21:06","Jonathan Davies<br />Run: 00:18:55","Debbie Davies<br />Run: 00:21:30","Anthony Rushton<br />Run: 00:19:12","Vaughan Skelly<br />Run: 00:21:18","Peter Crowe<br />Run: 00:21:20","Kyle Mooney<br />Run: 00:22:24","Dean Webb<br />Run: 00:22:17","Josh Horsley<br />Run: 00:22:58","Matthew Stanley<br />Run: 00:21:37","Nadja Kundrus-Little<br />Run: 00:21:47","Richard Mourant<br />Run: 00:24:10","Darren Jones<br />Run: 00:24:29","Greg Bemet<br />Run: 00:20:45","Terence Simpson<br />Run: 00:26:12","Dave de Closey<br />Run: 00:26:03","Marcel Van Kampen<br />Run: 00:31:07","Jim Collins<br />Run: 00:25:22","Kipp Freeman<br />Run: 00:19:47","Mark Collinson<br />Run: 00:24:38","John King<br />Run: 00:24:15","Viv Wright<br />Run: 00:24:26","Sharyn Klein<br />Run: 00:22:21","Rowena Smith<br />Run: 00:22:38","Ginny Jones<br />Run: 00:25:13","Samantha Leonard<br />Run: 00:23:24","Jeff Murray<br />Run: 00:25:02","Des Gooda<br />Run: 00:32:23","Peter Stowe<br />Run: 00:23:44","Ian Driffill<br />Run: 00:25:54","Philip SALTER<br />Run: 00:26:59","Julie Lowe<br />Run: 00:25:08","Wendy Wise<br />Run: 00:27:05","Helen Murphy<br />Run: 00:32:07","Peter Serone<br />Run: 00:28:12","Ross Salmon<br />Run: 00:27:47","Stephen RING<br />Run: 00:33:00","Kev Bannerman<br />Run: 00:38:23","Jolyon Ward<br />Run: 00:34:07","Greg Freeman<br />Run: 00:31:57"],"type":"bar","marker":{"autocolorscale":false,"color":"rgba(191,83,36,1)","line":{"width":1.88976377952756,"color":"transparent"}},"name":"Run","legendgroup":"Run","showlegend":true,"xaxis":"x","yaxis":"y","hoverinfo":"text","frame":null}],"layout":{"margin":{"t":24.3496412263536,"r":7.30593607305936,"b":38.3039791258969,"l":160},"font":{"color":"rgba(0,0,0,1)","family":"","size":14.6118721461187},"xaxis":{"domain":[0,1],"automargin":true,"type":"linear","autorange":false,"range":[-4.52833333333333,95.095],"tickmode":"array","ticktext":["0","10","20","30","40","50","60","70","80","90"],"tickvals":[0,10,20,30,40,50,60,70,80,90],"categoryorder":"array","categoryarray":["0","10","20","30","40","50","60","70","80","90"],"nticks":null,"ticks":"","tickcolor":null,"ticklen":3.65296803652968,"tickwidth":0,"showticklabels":true,"tickfont":{"color":"rgba(77,77,77,1)","family":"","size":11.689497716895},"tickangle":-0,"showline":false,"linecolor":null,"linewidth":0,"showgrid":true,"gridcolor":"rgba(235,235,235,1)","gridwidth":0.66417600664176,"zeroline":false,"anchor":"y","title":{"text":"Time (mins)","font":{"color":"rgba(0,0,0,1)","family":"","size":14.6118721461187}},"hoverformat":".2f"},"yaxis":{"domain":[0,1],"automargin":true,"type":"linear","autorange":false,"range":[-50.845,1.845],"tickmode":"array","ticktext":["1 Scott Thomson","2 Ben Hall","3 Sam Colman","4 Tracy Foyster","5 Kent Holmes","6 Clive Pearce","7 Jonathan Davies","8 Debbie Davies","9 Anthony Rushton","10 Vaughan Skelly","11 Peter Crowe","12 Kyle Mooney","13 Dean Webb","14 Matt Gabb","15 Josh Horsley","16 Matthew Stanley","17 Nadja Kundrus-Little","18 Richard Mourant","19 Darren Jones","20 Greg Bemet","21 Terence Simpson","22 Dave de Closey","23 Marcel Van Kampen","24 Jim Collins","25 Kipp Freeman","26 Mark Collinson","27 John King","28 Viv Wright","29 Sharyn Klein","30 Rowena Smith","31 Ginny Jones","32 Samantha Leonard","33 Jeff Murray","34 Des Gooda","35 Peter Stowe","36 Ian Driffill","37 Philip SALTER","38 Julie Lowe","39 Wendy Wise","40 Helen Murphy","41 Peter Serone","42 Ross Salmon","43 Stephen RING","44 Kev Bannerman","45 Val Lambard","46 Rob Gillies","47 Jolyon Ward","48 Greg Freeman","1 Scott Thomson","2 Ben Hall","3 Sam Colman","4 Tracy Foyster","5 Kent Holmes","6 Clive Pearce","7 Jonathan Davies","8 Debbie Davies","9 Anthony Rushton","10 Vaughan Skelly","11 Peter Crowe","12 Kyle Mooney","13 Dean Webb","14 Matt Gabb","15 Josh Horsley","16 Matthew Stanley","17 Nadja Kundrus-Little","18 Richard Mourant","19 Darren Jones","20 Greg Bemet","21 Terence Simpson","22 Dave de Closey","23 Marcel Van Kampen","24 Jim Collins","25 Kipp Freeman","26 Mark Collinson","27 John King","28 Viv Wright","29 Sharyn Klein","30 Rowena Smith","31 Ginny Jones","32 Samantha Leonard","33 Jeff Murray","34 Des Gooda","35 Peter Stowe","36 Ian Driffill","37 Philip SALTER","38 Julie Lowe","39 Wendy Wise","40 Helen Murphy","41 Peter Serone","42 Ross Salmon","43 Stephen RING","44 Kev Bannerman","45 Val Lambard","46 Rob Gillies","47 Jolyon Ward","48 Greg Freeman","1 Scott Thomson","2 Ben Hall","3 Sam Colman","4 Tracy Foyster","5 Kent Holmes","6 Clive Pearce","7 Jonathan Davies","8 Debbie Davies","9 Anthony Rushton","10 Vaughan Skelly","11 Peter Crowe","12 Kyle Mooney","13 Dean Webb","14 Matt Gabb","15 Josh Horsley","16 Matthew Stanley","17 Nadja Kundrus-Little","18 Richard Mourant","19 Darren Jones","20 Greg Bemet","21 Terence Simpson","22 Dave de Closey","23 Marcel Van Kampen","24 Jim Collins","25 Kipp Freeman","26 Mark Collinson","27 John King","28 Viv Wright","29 Sharyn Klein","30 Rowena Smith","31 Ginny Jones","32 Samantha Leonard","33 Jeff Murray","34 Des Gooda","35 Peter Stowe","36 Ian Driffill","37 Philip SALTER","38 Julie Lowe","39 Wendy Wise","40 Helen Murphy","41 Peter Serone","42 Ross Salmon","43 Stephen RING","44 Kev Bannerman","45 Val Lambard","46 Rob Gillies","47 Jolyon Ward","48 Greg Freeman"],"tickvals":[-1,-2,-3,-4,-5,-6,-7,-8,-9,-10,-11,-12,-13,-14,-15,-16,-17,-18,-19,-20,-21,-22,-23,-24,-25,-26,-27,-28,-29,-30,-31,-32,-33,-34,-35,-36,-37,-38,-39,-40,-41,-42,-43,-44,-45,-46,-47,-48,-1,-2,-3,-4,-5,-6,-7,-8,-9,-10,-11,-12,-13,-14,-15,-16,-17,-18,-19,-20,-21,-22,-23,-24,-25,-26,-27,-28,-29,-30,-31,-32,-33,-34,-35,-36,-37,-38,-39,-40,-41,-42,-43,-44,-45,-46,-47,-48,-1,-2,-3,-4,-5,-6,-7,-8,-9,-10,-11,-12,-13,-14,-15,-16,-17,-18,-19,-20,-21,-22,-23,-24,-25,-26,-27,-28,-29,-30,-31,-32,-33,-34,-35,-36,-37,-38,-39,-40,-41,-42,-43,-44,-45,-46,-47,-48],"categoryorder":"array","categoryarray":["1 Scott Thomson","2 Ben Hall","3 Sam Colman","4 Tracy Foyster","5 Kent Holmes","6 Clive Pearce","7 Jonathan Davies","8 Debbie Davies","9 Anthony Rushton","10 Vaughan Skelly","11 Peter Crowe","12 Kyle Mooney","13 Dean Webb","14 Matt Gabb","15 Josh Horsley","16 Matthew Stanley","17 Nadja Kundrus-Little","18 Richard Mourant","19 Darren Jones","20 Greg Bemet","21 Terence Simpson","22 Dave de Closey","23 Marcel Van Kampen","24 Jim Collins","25 Kipp Freeman","26 Mark Collinson","27 John King","28 Viv Wright","29 Sharyn Klein","30 Rowena Smith","31 Ginny Jones","32 Samantha Leonard","33 Jeff Murray","34 Des Gooda","35 Peter Stowe","36 Ian Driffill","37 Philip SALTER","38 Julie Lowe","39 Wendy Wise","40 Helen Murphy","41 Peter Serone","42 Ross Salmon","43 Stephen RING","44 Kev Bannerman","45 Val Lambard","46 Rob Gillies","47 Jolyon Ward","48 Greg Freeman","1 Scott Thomson","2 Ben Hall","3 Sam Colman","4 Tracy Foyster","5 Kent Holmes","6 Clive Pearce","7 Jonathan Davies","8 Debbie Davies","9 Anthony Rushton","10 Vaughan Skelly","11 Peter Crowe","12 Kyle Mooney","13 Dean Webb","14 Matt Gabb","15 Josh Horsley","16 Matthew Stanley","17 Nadja Kundrus-Little","18 Richard Mourant","19 Darren Jones","20 Greg Bemet","21 Terence Simpson","22 Dave de Closey","23 Marcel Van Kampen","24 Jim Collins","25 Kipp Freeman","26 Mark Collinson","27 John King","28 Viv Wright","29 Sharyn Klein","30 Rowena Smith","31 Ginny Jones","32 Samantha Leonard","33 Jeff Murray","34 Des Gooda","35 Peter Stowe","36 Ian Driffill","37 Philip SALTER","38 Julie Lowe","39 Wendy Wise","40 Helen Murphy","41 Peter Serone","42 Ross Salmon","43 Stephen RING","44 Kev Bannerman","45 Val Lambard","46 Rob Gillies","47 Jolyon Ward","48 Greg Freeman","1 Scott Thomson","2 Ben Hall","3 Sam Colman","4 Tracy Foyster","5 Kent Holmes","6 Clive Pearce","7 Jonathan Davies","8 Debbie Davies","9 Anthony Rushton","10 Vaughan Skelly","11 Peter Crowe","12 Kyle Mooney","13 Dean Webb","14 Matt Gabb","15 Josh Horsley","16 Matthew Stanley","17 Nadja Kundrus-Little","18 Richard Mourant","19 Darren Jones","20 Greg Bemet","21 Terence Simpson","22 Dave de Closey","23 Marcel Van Kampen","24 Jim Collins","25 Kipp Freeman","26 Mark Collinson","27 John King","28 Viv Wright","29 Sharyn Klein","30 Rowena Smith","31 Ginny Jones","32 Samantha Leonard","33 Jeff Murray","34 Des Gooda","35 Peter Stowe","36 Ian Driffill","37 Philip SALTER","38 Julie Lowe","39 Wendy Wise","40 Helen Murphy","41 Peter Serone","42 Ross Salmon","43 Stephen RING","44 Kev Bannerman","45 Val Lambard","46 Rob Gillies","47 Jolyon Ward","48 Greg Freeman"],"nticks":null,"ticks":"","tickcolor":null,"ticklen":3.65296803652968,"tickwidth":0,"showticklabels":true,"tickfont":{"color":"rgba(77,77,77,1)","family":"","size":11.689497716895},"tickangle":-0,"showline":false,"linecolor":null,"linewidth":0,"showgrid":true,"gridcolor":"rgba(235,235,235,1)","gridwidth":0.66417600664176,"zeroline":false,"anchor":"x","title":{"text":"Athlete","font":{"color":"rgba(0,0,0,1)","family":"","size":14.6118721461187}},"hoverformat":".2f"},"shapes":[{"type":"rect","fillcolor":null,"line":{"color":null,"width":0,"linetype":[]},"yref":"paper","xref":"paper","x0":0,"x1":1,"y0":0,"y1":1}],"showlegend":true,"legend":{"bgcolor":null,"bordercolor":null,"borderwidth":0,"font":{"color":"rgba(0,0,0,1)","family":"","size":11.689497716895},"y":0.955455568053993},"annotations":[{"text":"Part","x":1.02,"y":1,"showarrow":false,"ax":0,"ay":0,"font":{"color":"rgba(0,0,0,1)","family":"","size":14.6118721461187},"xref":"paper","yref":"paper","textangle":-0,"xanchor":"left","yanchor":"bottom","legendTitle":true}],"hovermode":"closest","width":800,"height":700,"barmode":"relative"},"config":{"doubleClick":"reset","showSendToCloud":false},"source":"A","attrs":{"40e73919c82":{"x":{},"y":{},"fill":{},"text":{},"type":"bar"}},"cur_data":"40e73919c82","visdat":{"40e73919c82":["function (y) ","x"]},"highlight":{"on":"plotly_click","persistent":false,"dynamic":false,"selectize":false,"opacityDim":0.2,"selected":{"opacity":1},"debounce":0},"shinyEvents":["plotly_hover","plotly_click","plotly_selected","plotly_relayout","plotly_brushed","plotly_brushing","plotly_clickannotation","plotly_doubleclick","plotly_deselect","plotly_afterplot","plotly_sunburstclick"],"base_url":"https://plot.ly"},"evals":[],"jsHooks":[]}</script>
 </div>
 <div class="mobile">
 <div class="figure"><span id="fig:unnamed-chunk-4"></span>

diff --git a/course.html b/course.html
@@ -169,8 +169,8 @@ code span.wa { color: #60a0b0; font-weight: bold; font-style: italic; } /* Warni
 <div id="course" class="section level1">
 <h1>Course</h1>
 <p>Under construction</p>
-<div id="htmlwidget-21b4dea7f287ab18735a" style="width:1500px;height:700px;" class="leaflet html-widget"></div>
-<script type="application/json" data-for="htmlwidget-21b4dea7f287ab18735a">{"x":{"options":{"crs":{"crsClass":"L.CRS.EPSG3857","code":null,"proj4def":null,"projectedBounds":null,"options":{}}},"setView":[[-28.214789,153.537275],16,[]],"calls":[{"method":"addMarkers","args":[-28.214789,153.537275,null,null,null,{"interactive":true,"draggable":false,"keyboard":true,"title":"","alt":"","zIndexOffset":0,"opacity":1,"riseOnHover":false,"riseOffset":250},null,null,null,null,null,{"interactive":false,"permanent":false,"direction":"auto","opacity":1,"offset":[0,0],"textsize":"10px","textOnly":false,"className":"","sticky":true},null]},{"method":"addTiles","args":["//{s}.tile.openstreetmap.org/{z}/{x}/{y}.png",null,null,{"minZoom":0,"maxZoom":18,"tileSize":256,"subdomains":"abc","errorTileUrl":"","tms":false,"noWrap":false,"zoomOffset":0,"zoomReverse":false,"opacity":1,"zIndex":1,"detectRetina":false,"attribution":"&copy; <a href=\"http://openstreetmap.org\">OpenStreetMap<\/a> contributors, <a href=\"http://creativecommons.org/licenses/by-sa/2.0/\">CC-BY-SA<\/a>"}]}],"limits":{"lat":[-28.214789,-28.214789],"lng":[153.537275,153.537275]}},"evals":[],"jsHooks":[]}</script>
+<div id="htmlwidget-3e0607d9aec49187d468" style="width:1500px;height:700px;" class="leaflet html-widget"></div>
+<script type="application/json" data-for="htmlwidget-3e0607d9aec49187d468">{"x":{"options":{"crs":{"crsClass":"L.CRS.EPSG3857","code":null,"proj4def":null,"projectedBounds":null,"options":{}}},"setView":[[-28.214789,153.537275],16,[]],"calls":[{"method":"addMarkers","args":[-28.214789,153.537275,null,null,null,{"interactive":true,"draggable":false,"keyboard":true,"title":"","alt":"","zIndexOffset":0,"opacity":1,"riseOnHover":false,"riseOffset":250},null,null,null,null,null,{"interactive":false,"permanent":false,"direction":"auto","opacity":1,"offset":[0,0],"textsize":"10px","textOnly":false,"className":"","sticky":true},null]},{"method":"addTiles","args":["//{s}.tile.openstreetmap.org/{z}/{x}/{y}.png",null,null,{"minZoom":0,"maxZoom":18,"tileSize":256,"subdomains":"abc","errorTileUrl":"","tms":false,"noWrap":false,"zoomOffset":0,"zoomReverse":false,"opacity":1,"zIndex":1,"detectRetina":false,"attribution":"&copy; <a href=\"http://openstreetmap.org\">OpenStreetMap<\/a> contributors, <a href=\"http://creativecommons.org/licenses/by-sa/2.0/\">CC-BY-SA<\/a>"}]}],"limits":{"lat":[-28.214789,-28.214789],"lng":[153.537275,153.537275]}},"evals":[],"jsHooks":[]}</script>
 
 </div>
             </section>

diff --git a/index.html b/index.html
@@ -169,7 +169,7 @@ code span.wa { color: #60a0b0; font-weight: bold; font-style: italic; } /* Warni
 <div id="header">
 <h1 class="title">TwinTowns Triathlon Club Race Times</h1>
 <p class="author"><em>Josh Horsley</em></p>
-<p class="date"><em>Updated: 2020-12-17 13:30 AEDT</em></p>
+<p class="date"><em>Updated: 2020-12-17 13:37 AEDT</em></p>
 </div>
 <div id="welcome" class="section level1">
 <h1>Welcome</h1>
